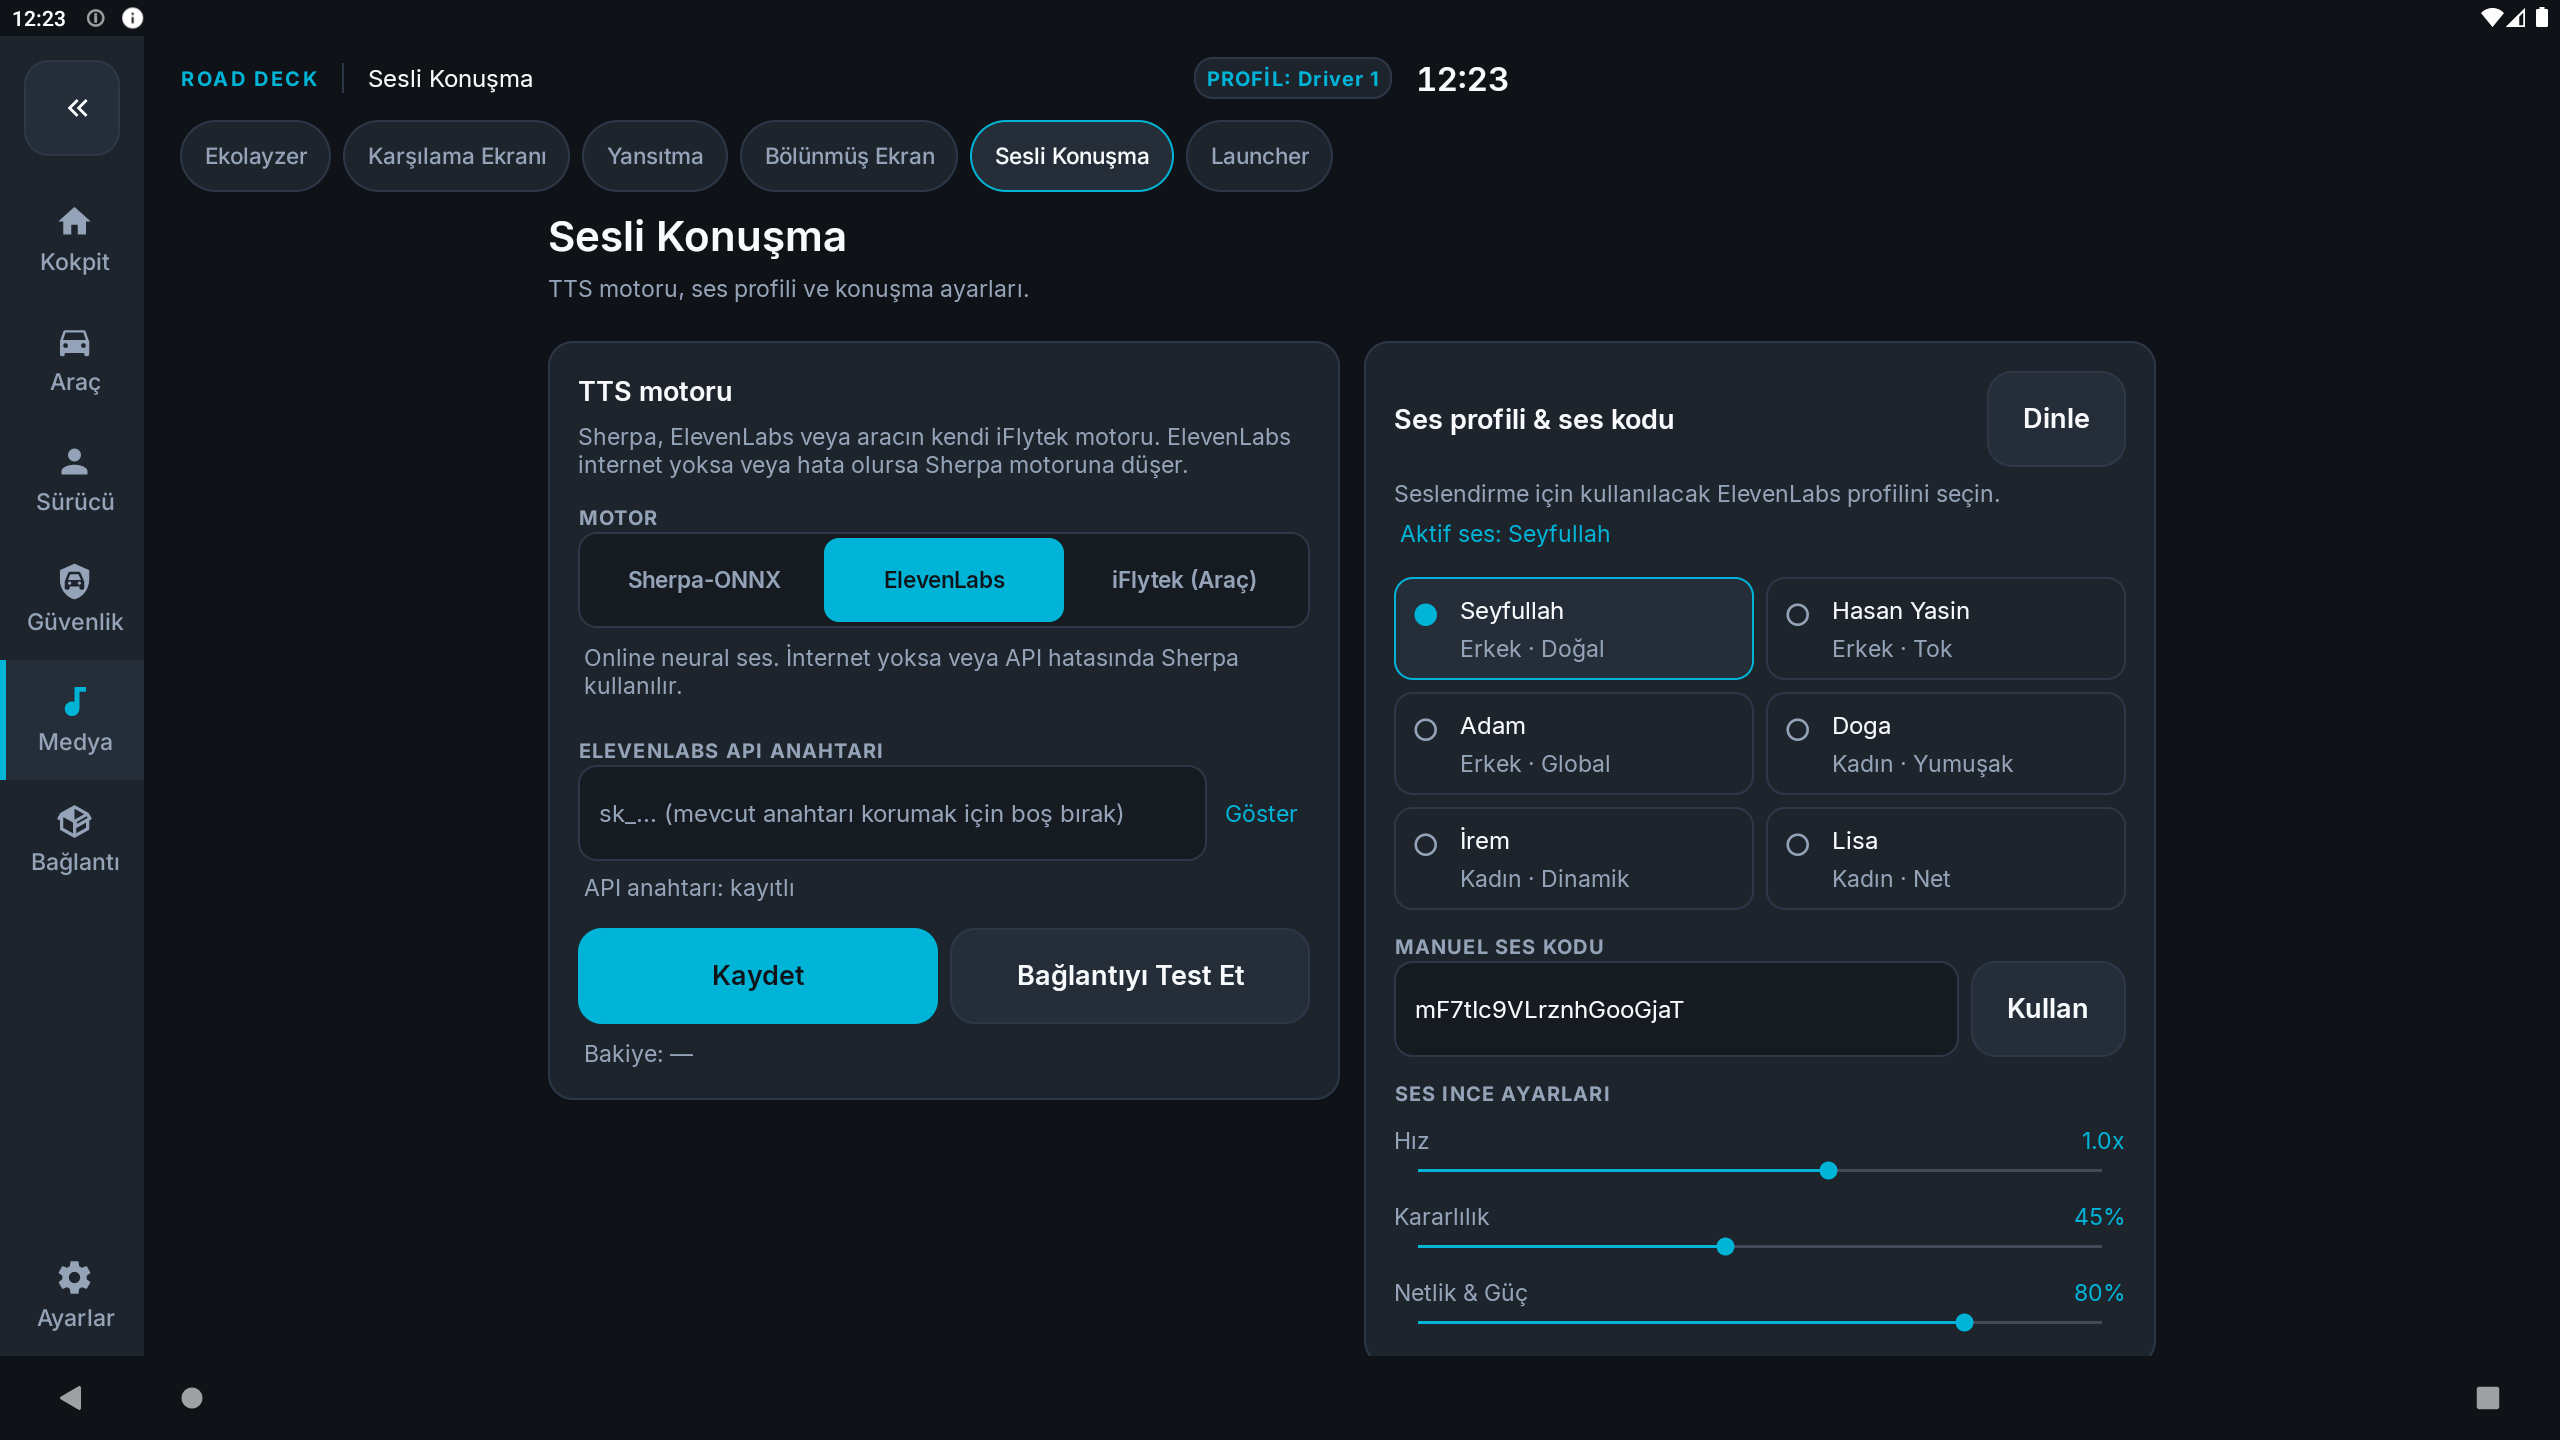
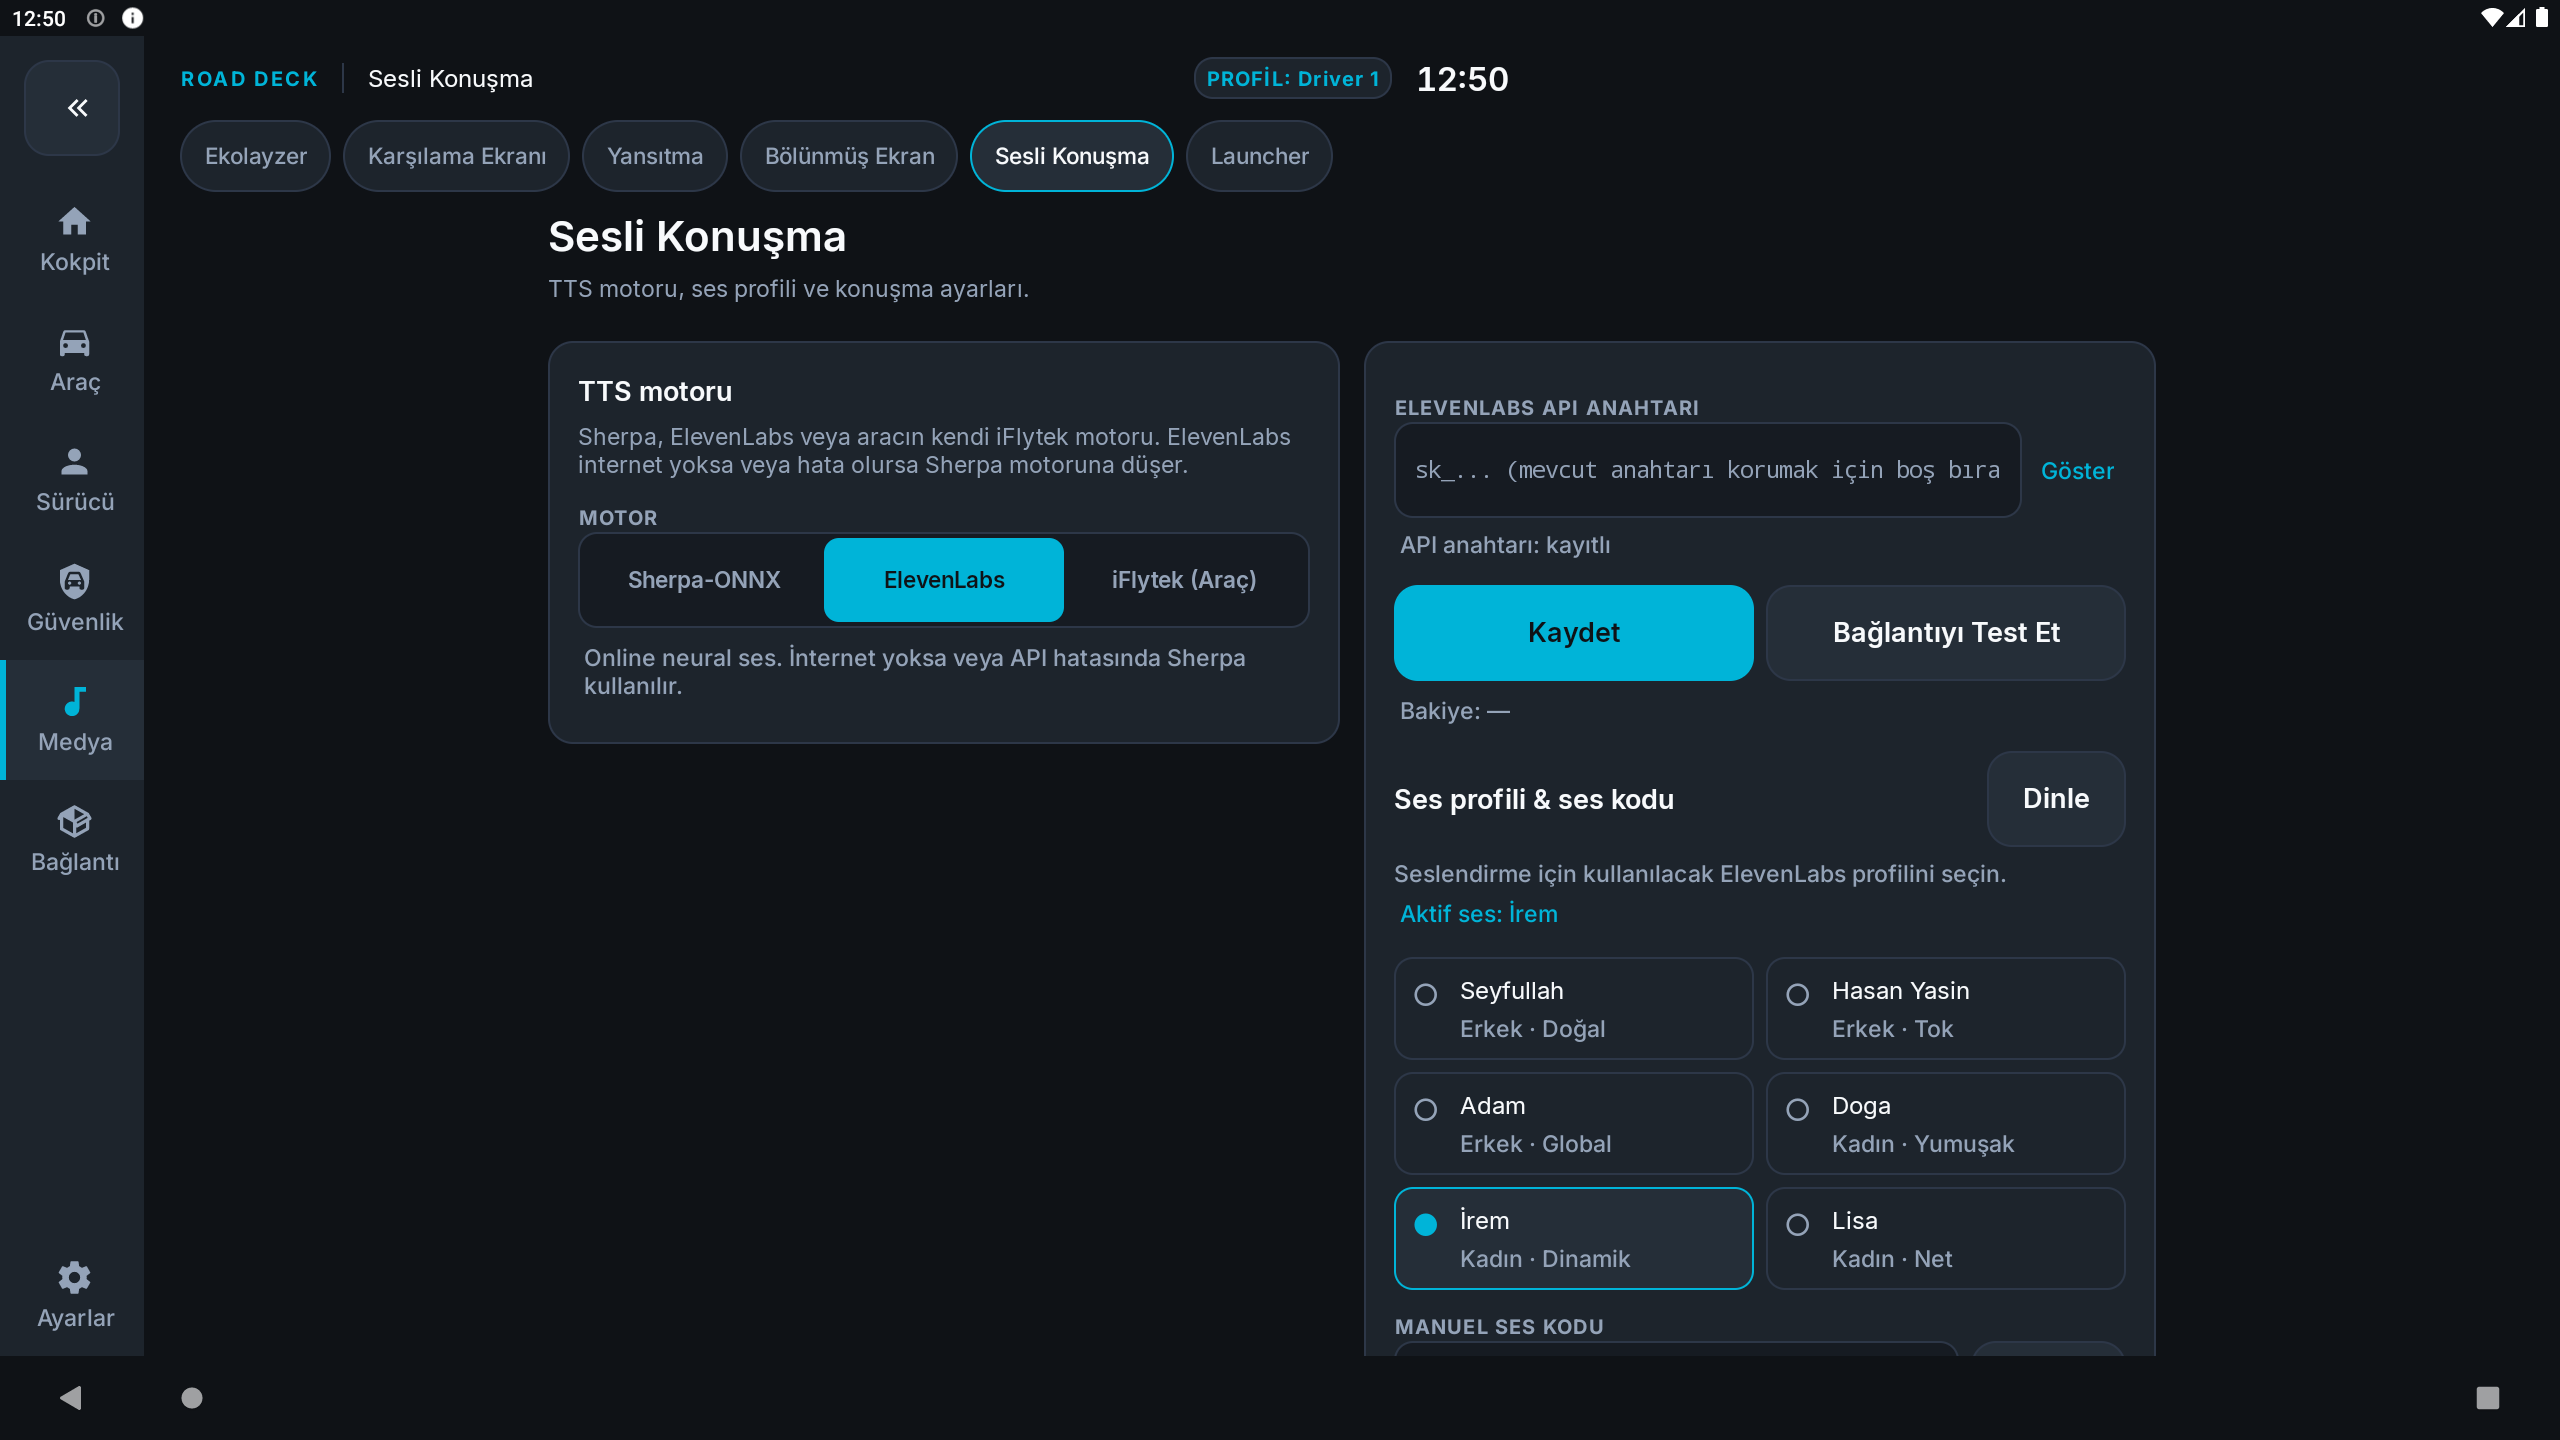
feat: sesli konusma motor bazli sag panel
- Sol kart yalniz motor secimini gosteriyor
- ElevenLabs sag panelinde API, ses profili ve ince ayarlar
- Sherpa/iFlytek sag panelinde kendi durum ve Dinle arayuzu
- Motor degisiminde sag panel aninda yeniden kuruluyor
- TAB_ASSIST ile ID cakismasi duzeltildi

diff --git a/app/src/main/java/com/mapcontrol/ui/builder/VoiceTalkTabBuilder.java b/app/src/main/java/com/mapcontrol/ui/builder/VoiceTalkTabBuilder.java
@@ -131,11 +131,10 @@ public class VoiceTalkTabBuilder {
             outer.addView(voiceCard, gap);
         }
 
-        buildEngineCard(engineCard);
-        buildVoiceCard(voiceCard);
+        buildEngineCard(engineCard, voiceCard);
     }
 
-    private void buildEngineCard(LinearLayout card) {
+    private void buildEngineCard(LinearLayout card, LinearLayout rightCard) {
         addTitle(card, R.string.settings_tts_section_title);
         addBody(card, R.string.settings_tts_section_desc, true);
 
@@ -153,10 +152,67 @@ public class VoiceTalkTabBuilder {
             prefs.edit().putString(MapControlSpeech.KEY_ENGINE, selected)
                     .putBoolean(MapControlSpeech.KEY_ENGINE_CONFIGURED, true).apply();
             addEngineHelp(card, index);
+            rebuildRightPanel(rightCard, index);
         });
         card.addView(engineSegmented, matchWrap());
         addEngineHelp(card, initialEngine);
+        rebuildRightPanel(rightCard, initialEngine);
+    }
 
+    private void addEngineHelp(LinearLayout card, int index) {
+        View old = card.findViewWithTag("engine_help");
+        if (old != null) card.removeView(old);
+        TextView help = new TextView(context);
+        help.setTag("engine_help");
+        help.setText(index == 2 ? R.string.settings_tts_iflytek_help
+                : (index == 1 ? R.string.settings_tts_elevenlabs_help
+                : R.string.settings_tts_sherpa_help));
+        CockpitTokens.bodySm(help);
+        help.setTextColor(CockpitTokens.color(context, R.color.ck_text_medium));
+        help.setPadding(dp(4), dp(8), dp(4), dp(8));
+        int position = card.indexOfChild(engineSegmented) + 1;
+        card.addView(help, position, matchWrap());
+    }
+
+    private void rebuildRightPanel(LinearLayout card, int engineIndex) {
+        if (card == null) return;
+        card.removeAllViews();
+        voiceCards.clear();
+        keyField = null;
+        keyStatus = null;
+        balanceText = null;
+        activeVoice = null;
+        customVoice = null;
+        if (engineIndex == 1) {
+            buildElevenLabsPanel(card);
+        } else {
+            buildSimpleEnginePanel(card, engineIndex);
+        }
+    }
+
+    private void buildSimpleEnginePanel(LinearLayout card, int engineIndex) {
+        addTitle(card, engineIndex == 0 ? R.string.settings_tts_sherpa
+                : R.string.settings_tts_iflytek);
+        addBody(card, engineIndex == 0 ? R.string.settings_tts_sherpa_help
+                : R.string.settings_tts_iflytek_help, true);
+        TextView note = new TextView(context);
+        note.setText(R.string.voice_talk_no_extra_settings);
+        CockpitTokens.bodySm(note);
+        note.setTextColor(CockpitTokens.color(context, R.color.ck_text_medium));
+        note.setPadding(dp(4), dp(12), dp(4), dp(12));
+        card.addView(note, matchWrap());
+        CockpitButton listen = CockpitButton.primary(context,
+                context.getString(R.string.voice_talk_listen));
+        listen.setMinHeight(CockpitTokens.dim(context, R.dimen.ck_touch_min));
+        listen.setOnClickListener(v -> {
+            MapControlSpeech.stop();
+            String sample = context.getString(R.string.voice_talk_sample);
+            MapControlSpeech.speak(context, sample, sample);
+        });
+        card.addView(listen, matchWrap());
+    }
+
+    private void buildElevenLabsPanel(LinearLayout card) {
         addLabel(card, R.string.settings_tts_api_key);
         LinearLayout keyRow = new LinearLayout(context);
         keyRow.setOrientation(LinearLayout.HORIZONTAL);
@@ -227,26 +283,9 @@ public class VoiceTalkTabBuilder {
         CockpitTokens.bodySm(balanceText);
         balanceText.setTextColor(CockpitTokens.color(context, R.color.ck_text_medium));
         balanceText.setText(R.string.voice_talk_balance_unknown);
-        balanceText.setPadding(dp(4), dp(8), 0, 0);
+        balanceText.setPadding(dp(4), dp(8), 0, dp(16));
         card.addView(balanceText);
-    }
 
-    private void addEngineHelp(LinearLayout card, int index) {
-        View old = card.findViewWithTag("engine_help");
-        if (old != null) card.removeView(old);
-        TextView help = new TextView(context);
-        help.setTag("engine_help");
-        help.setText(index == 2 ? R.string.settings_tts_iflytek_help
-                : (index == 1 ? R.string.settings_tts_elevenlabs_help
-                : R.string.settings_tts_sherpa_help));
-        CockpitTokens.bodySm(help);
-        help.setTextColor(CockpitTokens.color(context, R.color.ck_text_medium));
-        help.setPadding(dp(4), dp(8), dp(4), dp(8));
-        int position = card.indexOfChild(engineSegmented) + 1;
-        card.addView(help, position, matchWrap());
-    }
-
-    private void buildVoiceCard(LinearLayout card) {
         LinearLayout head = new LinearLayout(context);
         head.setOrientation(LinearLayout.HORIZONTAL);
         head.setGravity(Gravity.CENTER_VERTICAL);
